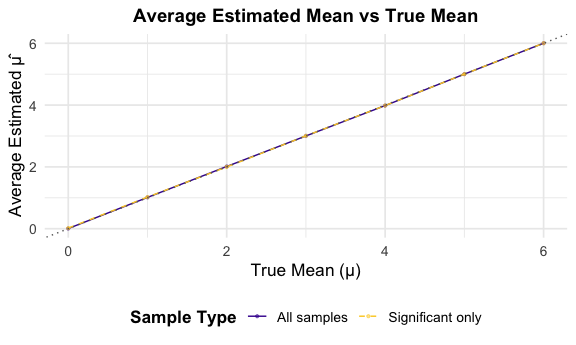
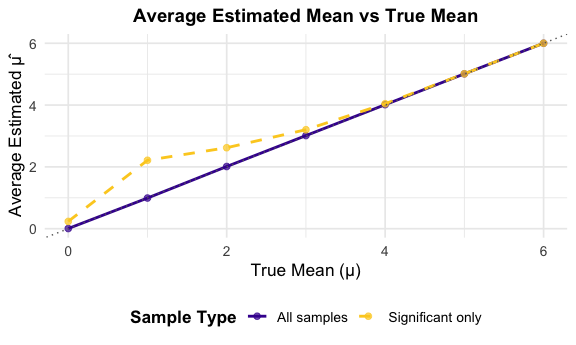
Modifiy problem 2

diff --git a/p8105_hw5_zc2823.md b/p8105_hw5_zc2823.md
@@ -60,17 +60,15 @@ n_sim = 5000
 
 ``` r
 sim_ttest = function(mu) {
-  tibble(
-    mu_true = mu,
-    mu_hat = map_dbl(1:n_sim, function(i) {
-      x = rnorm(n, mean = mu, sd = sigma)
-      mean(x)
-    }),
-    p_value = map_dbl(1:n_sim, function(i) {
-      x = rnorm(n, mean = mu, sd = sigma)
-      tidy(t.test(x, mu = 0))$p.value
-    })
-  )
+  map_dfr(1:n_sim, function(i) {
+    x = rnorm(n, mean = mu, sd = sigma)
+    t_out = tidy(t.test(x, mu = 0))
+    tibble(
+      mu_true = mu,
+      mu_hat = t_out$estimate,   # mean of this sample
+      p_value = t_out$p.value    # corresponding p-value
+    )
+  })
 }
 ```
 
@@ -119,28 +117,26 @@ approaches 1, meaning the test almost always detects the true effect.
 ### Calculate mu_hat
 
 ``` r
-mu_summary = 
-  sim_results %>% 
-  group_by(mu_true) %>% 
+mu_summary = sim_results %>%
+  group_by(mu_true) %>%
   summarize(
     avg_mu_hat = mean(mu_hat),
     avg_mu_hat_reject = mean(mu_hat[p_value < 0.05])
   )
 ```
 
-### average estimate vs true value
+### Plot average estimate vs true value
 
 ``` r
-mu_summary %>% 
-  ggplot(aes(x = mu_true)) +
-  geom_line(aes(y = avg_mu_hat, color = "All samples"), size = 0.5) +
-  geom_point(aes(y = avg_mu_hat, color = "All samples"), size = 0.8, alpha = 0.5) +
+ggplot(mu_summary, aes(x = mu_true)) +
+  geom_line(aes(y = avg_mu_hat, color = "All samples"), size = 1) +
+  geom_point(aes(y = avg_mu_hat, color = "All samples"), size = 2, alpha = 0.7) +
   geom_line(aes(y = avg_mu_hat_reject, color = "Significant only"), 
-            size = 0.5, linetype = "dashed") +
+            size = 1, linetype = "dashed") +
   geom_point(aes(y = avg_mu_hat_reject, color = "Significant only"), 
-             size = 0.8, alpha = 0.5) +
+             size = 2, alpha = 0.7) +
   geom_abline(slope = 1, intercept = 0, linetype = "dotted", color = "gray40") +
-  scale_color_viridis_d(option = "C", begin = 0.1, end = 0.9) +  
+  scale_color_viridis_d(option = "C", begin = 0.1, end = 0.9) +
   labs(
     title = "Average Estimated Mean vs True Mean",
     x = "True Mean (μ)",
@@ -157,14 +153,13 @@ mu_summary %>%
 
 <img src="p8105_hw5_zc2823_files/figure-gfm/unnamed-chunk-10-1.png" width="90%" />
 
-The plot shows that the average estimated mean (μ̂) across all samples
-lies almost perfectly on the 45° reference line, meaning μ̂ is an
-unbiased estimator of the true mean μ. When considering only samples
-where the null hypothesis was rejected, the average μ̂ is approximately
-equal to the true μ for large effect sizes, but slightly higher when μ
-is small. This occurs because only samples with unusually large sample
-means are likely to produce significant results when the true effect is
-small — a phenomenon known as selection bias or the winner’s curse. In
-short, the sample average of μ̂ among significant tests is slightly
-upward-biased for small μ, but overall very close to the true value when
-μ is large.
+The plot shows that the average estimated mean ($\hat{\mu}$) across all
+samples lies almost perfectly on the 45° reference line, indicating that
+$\hat{\mu}$ is an unbiased estimator of the true mean μ. However, when
+considering only samples where the null hypothesis was rejected (p \<
+0.05), the average $\hat{\mu}$ is noticeably higher than the true mean
+for small μ values. This occurs because only samples with unusually
+large sample means produce significant results when the true effect is
+small — a phenomenon known as selection bias or the winner’s curse. As μ
+increases and statistical power approaches 1, the two lines converge,
+since almost all samples become significant.
